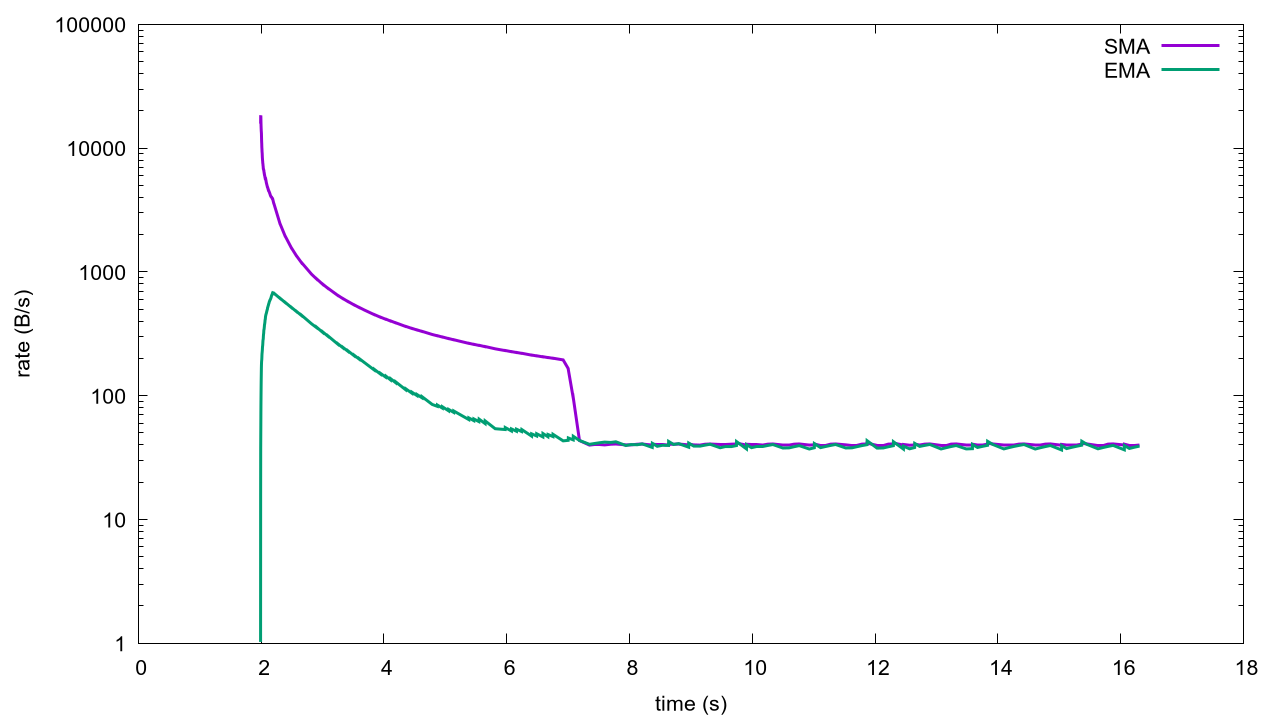
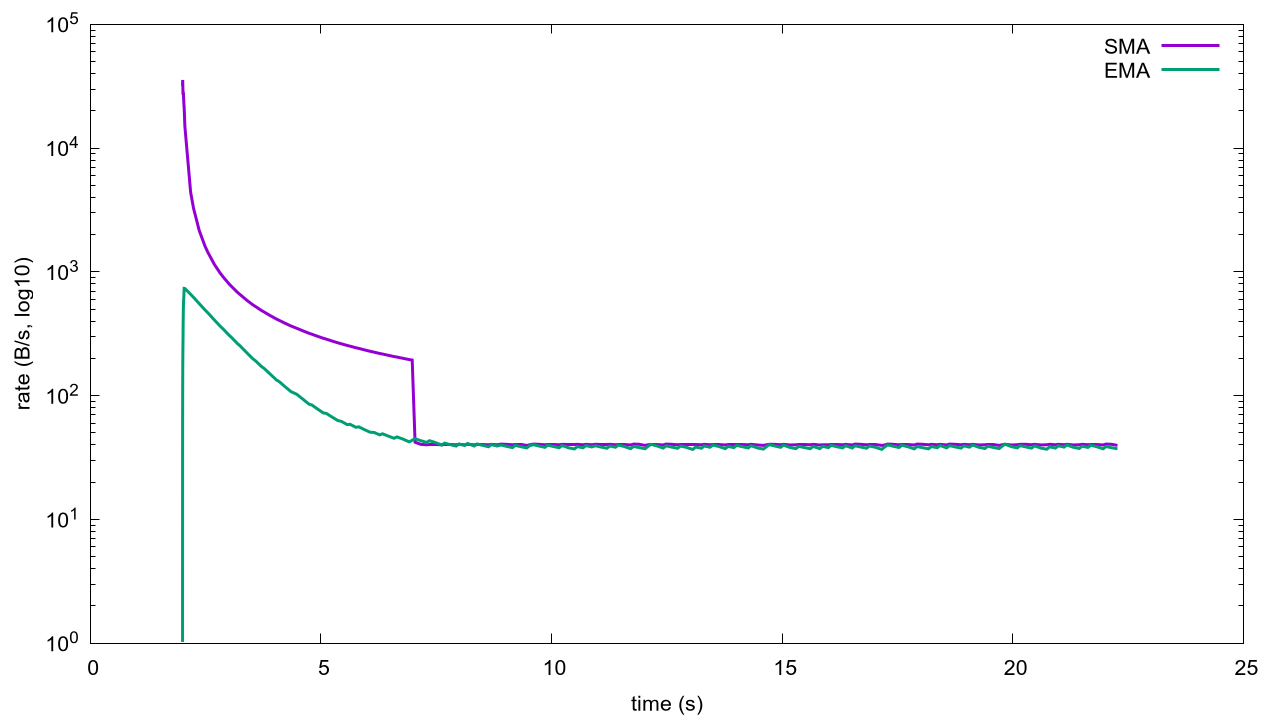
improve flow-control-player example

diff --git a/flow-control-player/server.py b/flow-control-player/server.py
@@ -113,7 +113,7 @@ class Receiver:
         ema_rate = self.ema.rate_kBps()
         msg = f'received: {self.received//1000:,} kB, '
         msg += f'EMA: {ema_rate:,.1f} kB/s, SMA: {sma_rate:,.1f} kB/s'
-        log(f'\r {msg} {10 * " "}\r')
+        log(f'\r {msg} {30 * " "}\r')
 
 
 if len(sys.argv) != 2:

diff --git a/flow-control-player/README.md b/flow-control-player/README.md
@@ -1,16 +1,17 @@
-Flow control for media stream
------------------------------
+Control de flujo multimedia
+---------------------------
 
-The server's receiving rate automatically adapts to the MP3 player's bitrate thanks to flow control.
+El servidor adapta automáticamente la tasa de recepción el bitrate que corresponda al fichero .mp3 que se envíe, debido a la tasa de consumo del reproductor.
 
-run server:
+Ejecuta estos comandos en terminales diferentes.
 
-```
-$ ./server.py 2000 | mplayer -quiet -
-```
+Servidor:
 
-run client:
+    $ ./server.py 2000 | mpg123 --quiet -
 
-```
-$ ./client.py localhost 2000 < audio.mp3
-```
+Cliente:
+
+    $ ./client.py localhost 2000 < song.mp3
+
+
+El servidor genera un fichero stats.csv, que puedes procesar con `gnuplot rate.gp` para generar una gráfica.
